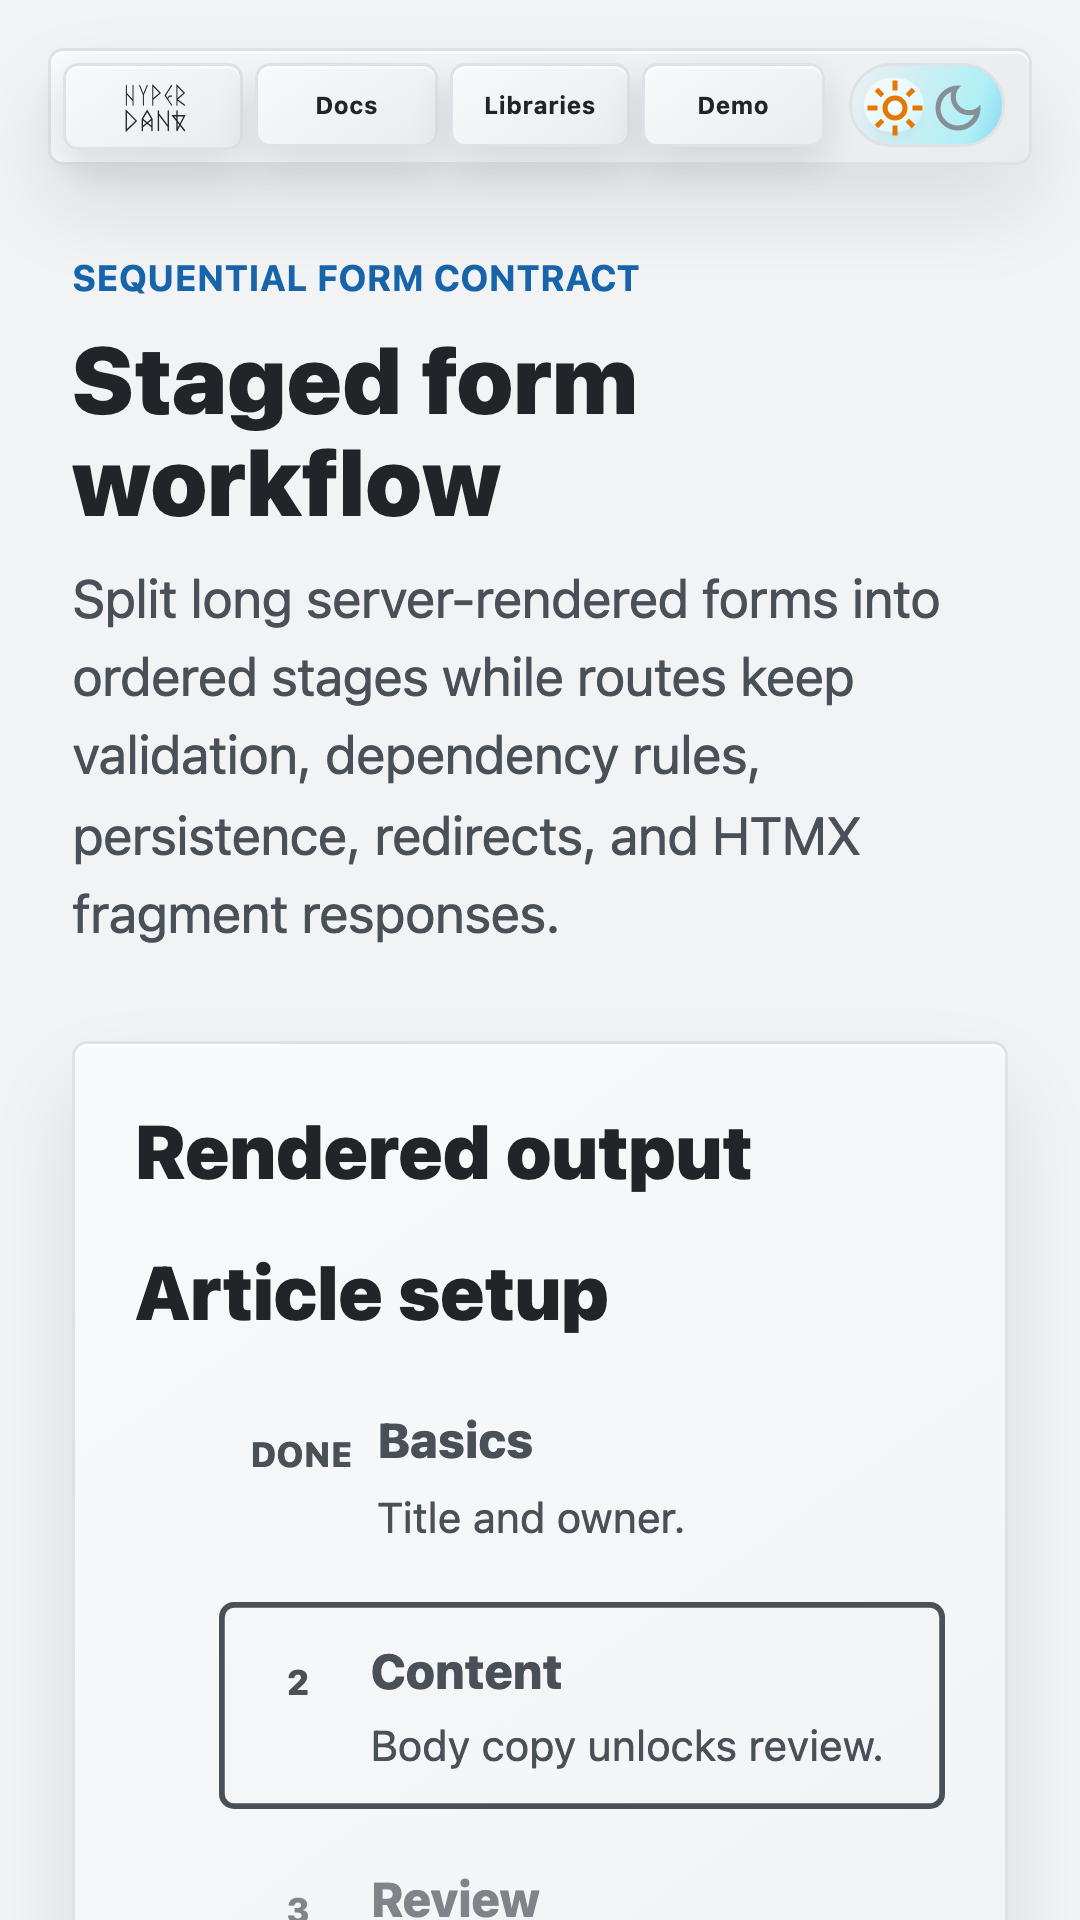
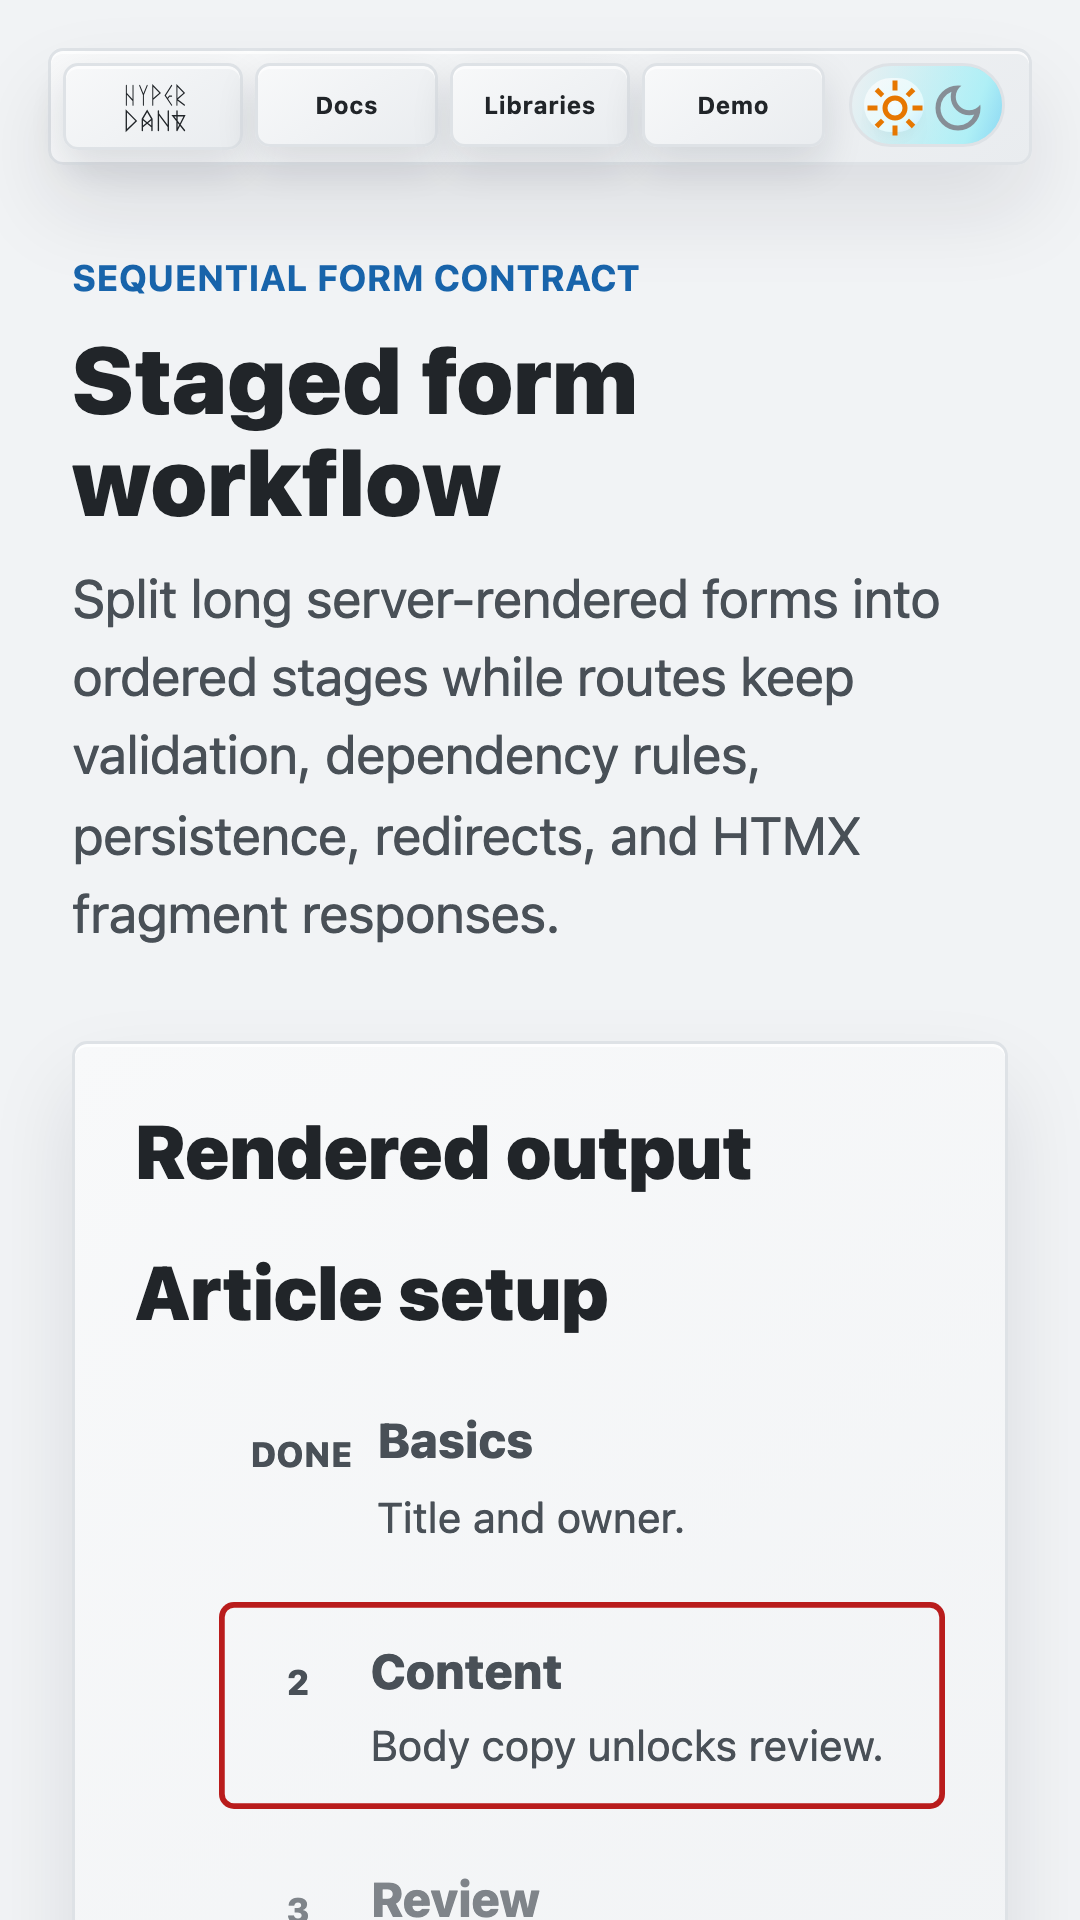
fix(ui): expose staged form error state

Changed region(s): [[0.8556, 0.8438, 0.8861, 0.9375], [0.1833, 0.8438, 0.2139, 0.9375], [0.2139, 0.8125, 0.2444, 0.8438]]

diff --git a/libs/components/src/molecules/StagedForm/StagedForm.tsx b/libs/components/src/molecules/StagedForm/StagedForm.tsx
@@ -61,9 +61,16 @@ export const StagedForm = ({
       <nav className="staged-form-progress" aria-label={resolvedProgressLabel}>
         <ol>
           {steps.map((step, index) => {
-            const status = resolveStepStatus(step, currentStepId);
+            const isCurrent = step.id === currentStepId;
+            const status = resolveStepStatus(step, isCurrent);
             const isDisabled = status === "unavailable";
-            const stepClasses = ["staged-form-step", `staged-form-step--${status}`].join(" ");
+            const stepClasses = [
+              "staged-form-step",
+              `staged-form-step--${status}`,
+              isCurrent ? "staged-form-step--current" : undefined,
+            ]
+              .filter(Boolean)
+              .join(" ");
             const content = (
               <>
                 <span className="staged-form-step-marker" aria-hidden="true">
@@ -71,6 +78,9 @@ export const StagedForm = ({
                 </span>
                 <span className="staged-form-step-copy">
                   <span className="staged-form-step-label">{step.label}</span>
+                  <span className="staged-form-step-status">
+                    {stepStatusLabel(status, isCurrent)}
+                  </span>
                   {step.description ? (
                     <span className="staged-form-step-description">{step.description}</span>
                   ) : undefined}
@@ -83,14 +93,14 @@ export const StagedForm = ({
                 {step.href && !isDisabled ? (
                   <a
                     href={step.href}
-                    aria-current={status === "current" ? "step" : undefined}
+                    aria-current={isCurrent ? "step" : undefined}
                     {...htmxAttributes(step)}
                   >
                     {content}
                   </a>
                 ) : (
                   <span
-                    aria-current={status === "current" ? "step" : undefined}
+                    aria-current={isCurrent ? "step" : undefined}
                     aria-disabled={isDisabled ? "true" : undefined}
                   >
                     {content}
@@ -124,7 +134,22 @@ export const StagedForm = ({
   );
 };
 
-function resolveStepStatus(step: StagedFormStep, currentStepId: string): StagedFormStepStatus {
-  if (step.id === currentStepId) return "current";
-  return step.status ?? "available";
+function resolveStepStatus(step: StagedFormStep, isCurrent: boolean): StagedFormStepStatus {
+  return step.status ?? (isCurrent ? "current" : "available");
+}
+
+function stepStatusLabel(status: StagedFormStepStatus, isCurrent: boolean) {
+  if (isCurrent && status === "error") return "Current step, needs attention";
+  if (isCurrent) return "Current step";
+
+  switch (status) {
+    case "complete":
+      return "Complete";
+    case "error":
+      return "Needs attention";
+    case "unavailable":
+      return "Unavailable";
+    default:
+      return "Available";
+  }
 }

diff --git a/libs/components/src/molecules/StagedForm/StagedForm.test.tsx b/libs/components/src/molecules/StagedForm/StagedForm.test.tsx
@@ -23,7 +23,7 @@ describe("StagedForm", () => {
               id: "content",
               label: "Content",
               description: "Add the body and excerpt.",
-              status: "current",
+              status: "error",
             },
             { id: "review", label: "Review", status: "unavailable" },
           ]}
@@ -59,10 +59,15 @@ describe("StagedForm", () => {
     );
     expect(html).toContain('class="staged-form-step staged-form-step--complete"');
     expect(html).toContain('<a href="/publish/basics"');
-    expect(html).toContain('class="staged-form-step staged-form-step--current"');
+    expect(html).toContain(
+      'class="staged-form-step staged-form-step--error staged-form-step--current"',
+    );
     expect(html).toContain('aria-current="step"');
+    expect(html).toContain("Current step, needs attention");
     expect(html).toContain('class="staged-form-step staged-form-step--unavailable"');
     expect(html).toContain('aria-disabled="true"');
+    expect(html).toContain("Complete");
+    expect(html).toContain("Unavailable");
     expect(html).toContain('id="publish-stages-panel" class="staged-form-panel"');
     expect(html).toContain('aria-describedby="publish-stages-content-description"');
     expect(html).toContain('class="validation-summary" role="alert"');

diff --git a/libs/components/src/styles.css b/libs/components/src/styles.css
@@ -699,6 +699,15 @@
   font-size: 0.88rem;
 }
 
+.staged-form-step-status {
+  position: absolute;
+  width: 1px;
+  height: 1px;
+  overflow: hidden;
+  clip: rect(0 0 0 0);
+  white-space: nowrap;
+}
+
 .staged-form-step--current > :where(a, span) {
   border-color: var(--hd-accent, currentColor);
   box-shadow: inset 0 0 0 0.12rem var(--hd-accent, currentColor);
@@ -711,6 +720,10 @@
 
 .staged-form-step--error > :where(a, span) {
   border-color: var(--hd-status-danger, #b91c1c);
+}
+
+.staged-form-step--current.staged-form-step--error > :where(a, span) {
+  box-shadow: inset 0 0 0 0.12rem var(--hd-status-danger, #b91c1c);
 }
 
 .staged-form-step [aria-disabled="true"] {
